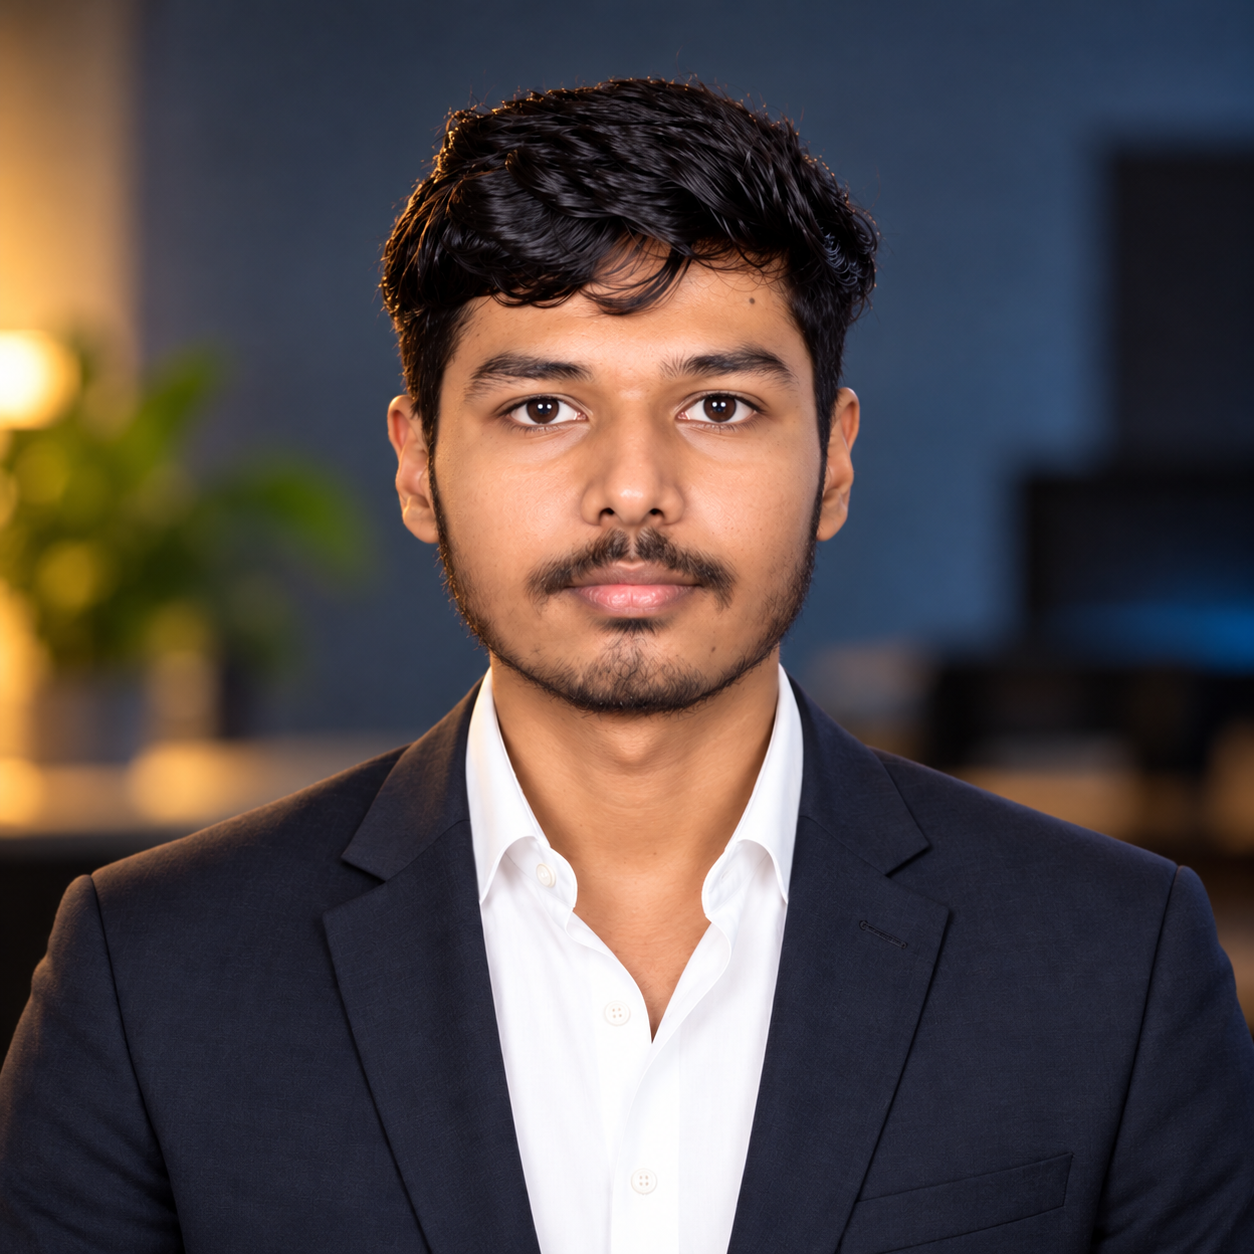
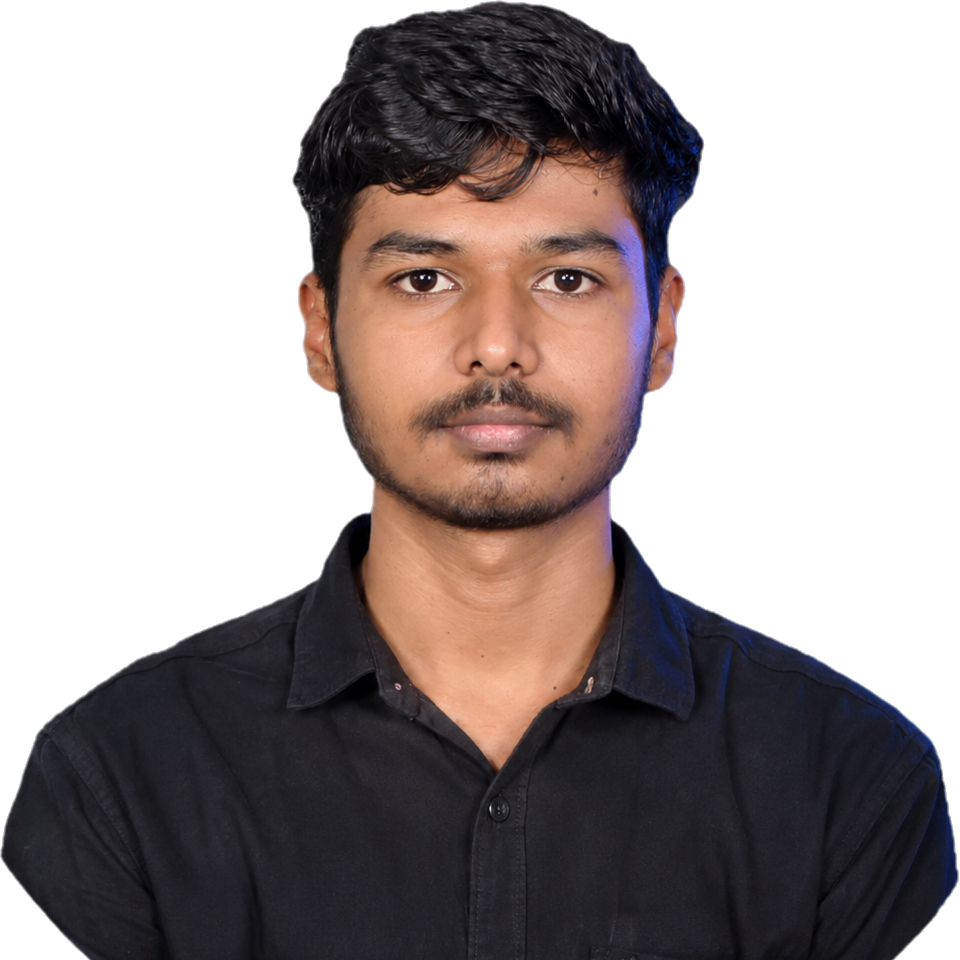
Update profile image and improve website security

diff --git a/index.html b/index.html
@@ -8,11 +8,13 @@
     <title>Praveen.exe — ECE Student, Developer &amp; Cybersecurity Enthusiast</title>
     <meta name="description" content="Official personal portfolio of Praveenkumar Mokashi (Praveen.exe) — ECE Student / Developer / Cybersecurity Enthusiast at East West Institute of Technology (EWIT). Building projects, exploring systems, learning cybersecurity." />
     <meta name="author" content="Praveenkumar Mokashi" />
+    <meta name="referrer" content="strict-origin-when-cross-origin" />
+    <meta http-equiv="Content-Security-Policy" content="default-src 'self'; script-src 'self' 'unsafe-inline'; style-src 'self' 'unsafe-inline' https://fonts.googleapis.com; font-src 'self' https://fonts.gstatic.com data:; img-src 'self' data: https: blob:; connect-src 'self' https: ws: wss:; object-src 'none'; base-uri 'self';" />
     <!-- Open Graph -->
     <meta property="og:type" content="website" />
     <meta property="og:title" content="Praveen.exe — ECE Student, Developer &amp; Cybersecurity Enthusiast" />
     <meta property="og:description" content="Building projects. Exploring systems. Learning cybersecurity." />
-    <meta property="og:image" content="./images/profile-cyber.png" />
+    <meta property="og:image" content="/images/profile.png" />
     <!-- Premium Typography: Space Grotesk (Headings), Inter (Body), JetBrains Mono (Technical) -->
     <link rel="preconnect" href="https://fonts.googleapis.com" />
     <link rel="preconnect" href="https://fonts.gstatic.com" crossorigin />

diff --git a/src/components/workspace/sections/HomeView.tsx b/src/components/workspace/sections/HomeView.tsx
@@ -305,8 +305,8 @@ export const HomeView: React.FC<HomeViewProps> = ({ onNavigate }) => {
 
                     {!imgError ? (
                       <img
-                        src="./images/profile-cyber.png"
-                        alt="Praveenkumar Mokashi"
+                        src="/images/profile.png"
+                        alt="Praveenkumar Mokashi - ECE Student & Cybersecurity Enthusiast"
                         className="w-full h-full object-cover object-center rounded-xl transition-transform duration-500 group-hover:scale-105"
                         onError={() => setImgError(true)}
                       />

diff --git a/src/components/workspace/QuickLauncher.tsx b/src/components/workspace/QuickLauncher.tsx
@@ -73,8 +73,8 @@ export const QuickLauncher: React.FC<QuickLauncherProps> = ({
                   style={{ background: 'var(--surface)' }}
                 >
                   <img
-                    src="./images/profile-cyber.png"
-                    alt="Praveenkumar Mokashi"
+                    src="/images/profile.png"
+                    alt="Praveenkumar Mokashi - ECE Student & Cybersecurity Enthusiast"
                     className="w-full h-full object-cover object-center"
                     onError={(e) => {
                       (e.target as HTMLElement).style.display = 'none';

diff --git a/src/components/workspace/sections/ContactView.tsx b/src/components/workspace/sections/ContactView.tsx
@@ -199,6 +199,7 @@ export const ContactView: React.FC = () => {
                 onChange={(e) => setDraftMessage(e.target.value)}
                 placeholder="Click a template above or draft your custom message..."
                 rows={4}
+                maxLength={2000}
                 className="w-full p-3 rounded-xl font-mono text-xs text-[var(--text-primary)] placeholder-[var(--text-muted)] focus:outline-none resize-none"
                 style={{
                   background: 'var(--surface)',

diff --git a/src/components/About.tsx b/src/components/About.tsx
@@ -231,7 +231,7 @@ export const About: React.FC = () => {
                   }}
                 />
                 <img
-                  src="./images/profile-cyber.png"
+                  src="/images/profile.png"
                   alt="Praveenkumar Mokashi"
                   style={{ width: '100%', height: '100%', objectFit: 'cover', objectPosition: 'center' }}
                 />

diff --git a/src/components/Hero.tsx b/src/components/Hero.tsx
@@ -671,7 +671,7 @@ export const Hero: React.FC = () => {
 
                     {!imgError ? (
                       <img
-                        src="./images/profile-cyber.png"
+                        src="/images/profile.png"
                         alt="Praveenkumar Mokashi"
                         style={{
                           width: '100%',

diff --git a/vite.config.ts b/vite.config.ts
@@ -8,5 +8,8 @@ export default defineConfig({
     react(),
     tailwindcss(),
   ],
-  base: './', // Ensures assets load cleanly on GitHub Pages and relative sub-paths
+  base: '/', // Custom domain pravin.is-a.dev is served from root
+  build: {
+    sourcemap: false, // Prevent exposing unminified source code in production build
+  },
 })

diff --git a/src/components/Contact.tsx b/src/components/Contact.tsx
@@ -421,6 +421,7 @@ export const Contact: React.FC = () => {
             onChange={(e) => setDraftMessage(e.target.value)}
             placeholder="Click a starter above or write a message here..."
             rows={3}
+            maxLength={2000}
             style={{
               width: '100%',
               padding: '1rem',
